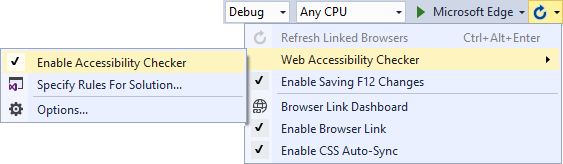
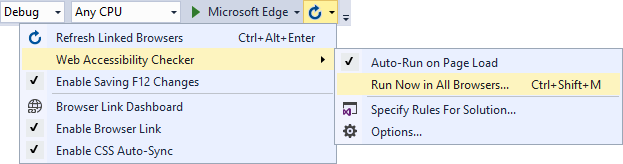
Updates

diff --git a/README.md b/README.md
@@ -37,14 +37,44 @@ toolbar lets you know if Browser Link is connected.
 
 ![Browser Link Tooltip](art/browser-link-tooltip.png)
 
-### Enable Web Accessibility Checker
-Make sure Web Accessibility Checker is enabled, but clicking
-the _Enable Accessibility Checker_ button in the Browser Link
-dropdown menu.
+## Commands
+The Browser Link dropdown menu hosts the _Web Accessibility Checker_
+sub menu.
 
 ![Dropdown menu](art/dropdown-menu.png)
 
-### Accessibility rules
+There are multiple command buttons in the menu.
+
+### Auto-Run on Page Load
+This will automatically run the accessibility checker every
+time a page loads in the browser - any browser.
+
+### Run Now in All Browsers...
+In addition to auto-running the checker on page load, doing it
+on demand can be helpful when you need to interact with the
+page to get it into a state you want to check.
+
+This is also a great way of running on demand only if you disable
+_Auto-Run on Page Load_.
+
+### Specify Fules For Solution...
+Clicking this command will add a configuration file to the
+solution.
+
+![a11y config file](art/config-file.png)
+
+It's a JSON file containing all the rules being run. You can
+customize it by adding and removing rules and there is full
+Intellisense for all the rules.
+
+![Config Intellisense](art/config-intellisense.png)
+
+### Settings
+Some global settings can be configured in the option dialog.
+
+![Options dialog](art/options.png)
+
+## Accessibility rules
 This extensions uses the [axe-core](https://github.com/dequelabs/axe-core)
 library to perform the accessibility analysis.
 
@@ -54,7 +84,7 @@ project or solution.
 See the full 
 [list of rules](https://dequeuniversity.com/rules/axe/1.1)
 
-### Error list
+## Error list
 Errors found on the page will automatically populate the
 Error List in Visual Studio.
 
@@ -64,10 +94,10 @@ In some cases it is known exactly where in the source code
 the issue is and double-clicking the error take you straight
 to the location.
 
-### Settings
-Some global settings can be configured in the option dialog.
+To clear all accessbility errors from the Error List, simply
+right-click and hit _Clear All Accessibility Errors_.
 
-![Options dialog](art/options.png)
+![Error List context menu](art/error-list-context-menu.png)
 
 ## Contribute
 Check out the [contribution guidelines](.github/CONTRIBUTING.md)
